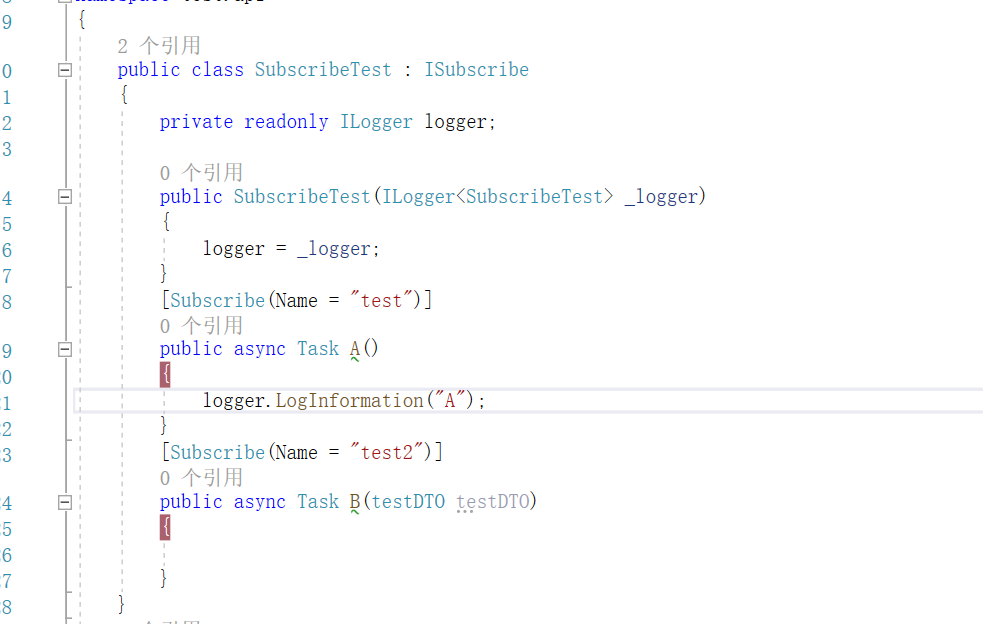
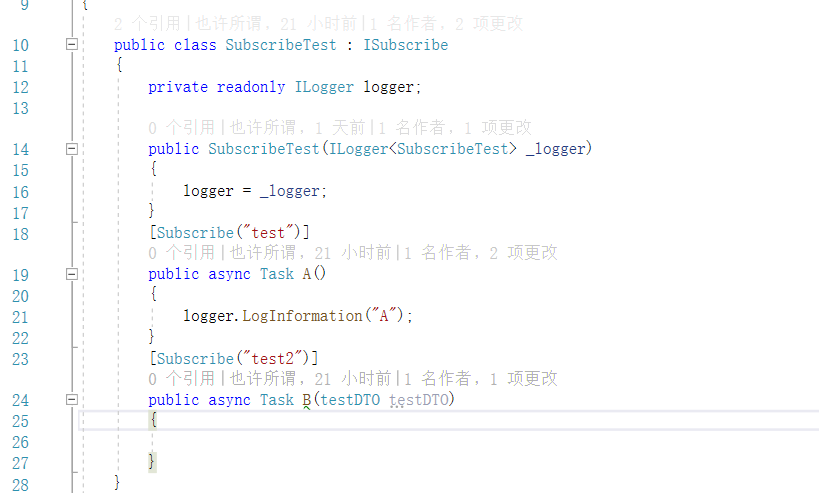
1.优化代码 2.增加aop事件处理

diff --git a/test/test.api/Startup.cs b/test/test.api/Startup.cs
@@ -7,6 +7,7 @@ using Microsoft.AspNetCore.Hosting;
 using Microsoft.AspNetCore.Http;
 using Microsoft.Extensions.DependencyInjection;
 using Microsoft.Extensions.Hosting;
+using Naruto.Subscribe;
 using Naruto.Subscribe.Extension;
 using Naruto.Subscribe.Interface;
 using Naruto.Subscribe.Provider.Redis;
@@ -29,13 +30,13 @@ namespace test.api
         }
 
         // This method gets called by the runtime. Use this method to configure the HTTP request pipeline.
-        public  async void Configure(IApplicationBuilder app, IWebHostEnvironment env)
+        public async void Configure(IApplicationBuilder app, IWebHostEnvironment env)
         {
             if (env.IsDevelopment())
             {
                 app.UseDeveloperExceptionPage();
             }
-          
+
             app.UseRouting();
 
             app.Map(new PathString("/test"), app2 =>
@@ -63,6 +64,17 @@ namespace test.api
             });
 
             await app.EnableSubscribe();
+
+            NarutoMessageAopEvent.RegisterPreHandlerEvent((subscribeName, msg) =>
+            {
+                msg = "{'id':'jjj'}";
+                Console.WriteLine(subscribeName + msg);
+            });
+
+            NarutoMessageAopEvent.RegisterAfterHandlerEvent((subscribeName, msg) =>
+            {
+                Console.WriteLine(subscribeName + msg);
+            });
         }
     }
 }

diff --git a/src/Naruto.Subscribe/NarutoMessageAopEvent.cs b/src/Naruto.Subscribe/NarutoMessageAopEvent.cs
@@ -1,0 +1,43 @@
+using System;
+using System.Collections.Generic;
+using System.Text;
+
+namespace Naruto.Subscribe
+{
+    /// <summary>
+    /// 张海波
+    /// 2020-09-06
+    /// 消息处理的aop事件
+    /// </summary>
+    public class NarutoMessageAopEvent
+    {
+
+        /// <summary>
+        /// 消息处理前
+        /// </summary>
+        internal static Action<string, string> PreHandler;
+
+        /// <summary>
+        /// 消息处理后
+        /// </summary>
+        internal static Action<string, string> AfterHandler;
+
+        /// <summary>
+        /// 订阅消息处理前的事件 第一个参数是订阅的名称，第二个参数是 接收的消息
+        /// </summary>
+        /// <param name="messageEvent"></param>
+        public static void RegisterPreHandlerEvent(Action<string, string> messageEvent)
+        {
+            PreHandler = messageEvent;
+        }
+
+        /// <summary>
+        /// 订阅消息处理后的事件 第一个参数是订阅的名称，第二个参数是 接收的消息
+        /// </summary>
+        /// <param name="messageEvent"></param>
+        public static void RegisterAfterHandlerEvent(Action<string, string> messageEvent)
+        {
+            AfterHandler = messageEvent;
+        }
+    }
+}

diff --git a/src/Naruto.Subscribe/Internal/SubscribeHandler.cs b/src/Naruto.Subscribe/Internal/SubscribeHandler.cs
@@ -50,8 +50,15 @@ namespace Naruto.Subscribe.Internal
             var isParamter = paramters != null && paramters.Count() > 0;
             //验证是否是有参的方法，当前默认只支持一个参数
             var paramtersObject = isParamter ? msg.ToDeserialized(paramters[0].ParameterType) : null;
+
+            //消息处理前的aop事件
+            NarutoMessageAopEvent.PreHandler?.Invoke(subscribeName, msg);
+
             //操作动态执行方法接口
             await dynamicMethod.ExecAsync(serviceProvider.GetRequiredService(baseSubscribeType.ServiceType), baseSubscribeType.MethodName, isParamter, isParamter ? paramters[0].ParameterType : null, paramtersObject);
+
+            //消息处理后的aop事件
+            NarutoMessageAopEvent.AfterHandler?.Invoke(subscribeName, msg);
 
             logger.LogInformation("处理完毕接受到的订阅信息");
         }

diff --git a/test/test.api/SubscribeTest.cs b/test/test.api/SubscribeTest.cs
@@ -15,12 +15,12 @@ namespace test.api
         {
             logger = _logger;
         }
-        [Subscribe(Name = "test")]
+        [Subscribe("test")]
         public async Task A()
         {
             logger.LogInformation("A");
         }
-        [Subscribe(Name = "test2")]
+        [Subscribe("test2")]
         public async Task B(testDTO testDTO)
         {
 

diff --git a/README.md b/README.md
@@ -19,7 +19,7 @@
 3. 书写自己的订阅业务的时候，需要继承<b>ISubscribe</b>接口,继承此接口的对象自动会注入成单例对象,可以使用DI的功能
 4. ![subscribe](/subscribe.png)
 5. 给需要订阅的方法标记<b>Subscribe</b>特性
-
+6.使用<b>NarutoMessageAopEvent</b>，可以处理消息发送前后的aop事件
 #### 参与贡献 
 
 1.  Fork 本仓库
